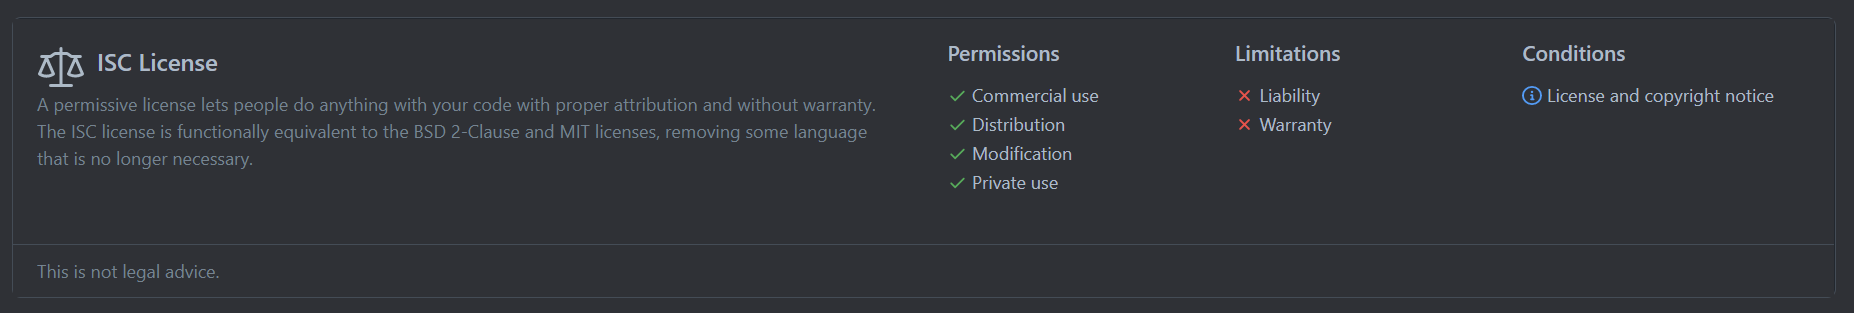
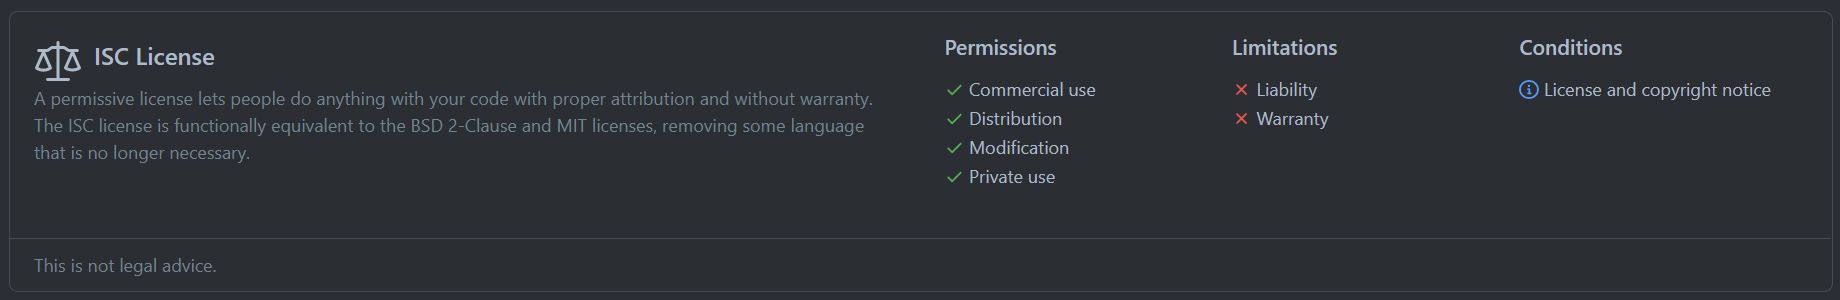
Fixed ISC license image in docs

diff --git a/docs/assets/style.css b/docs/assets/style.css
@@ -1463,3 +1463,17 @@ img {
     border-radius: 999rem;
     border: 0.25rem solid var(--color-icon-background);
 }
+
+.darkImg {
+    display: none;
+}
+
+@media (prefers-color-scheme: dark) {
+    .darkImg {
+        display: block;
+    }
+
+    .lightImg {
+        display: none;
+    }
+}

diff --git a/src/docs/overwrites/style.css b/src/docs/overwrites/style.css
@@ -1463,3 +1463,17 @@ img {
     border-radius: 999rem;
     border: 0.25rem solid var(--color-icon-background);
 }
+
+.darkImg {
+    display: none;
+}
+
+@media (prefers-color-scheme: dark) {
+    .darkImg {
+        display: block;
+    }
+
+    .lightImg {
+        display: none;
+    }
+}
